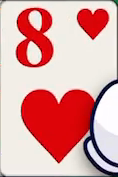
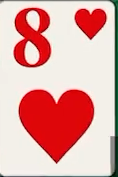
fix: remove overlay from eight of hearts reference

diff --git a/tests/solitaire.spec.js b/tests/solitaire.spec.js
@@ -137,6 +137,7 @@ test('reference card illustrations render on matching cards', async ({ page }) =
       [1, '♦', 1],
       [2, '♣', 7],
       [3, '♦', 10],
+      [4, '♥', 8],
       [5, '♦', 3],
       [6, '♠', 3],
       [9, '♠', 4],
@@ -159,6 +160,9 @@ test('reference card illustrations render on matching cards', async ({ page }) =
     window.solitaireGame.state.tableau[1][0].faceUp = true;
     window.solitaireGame.state.tableau[2][0].faceUp = true;
     window.solitaireGame.state.tableau[3][0].faceUp = true;
+    const eightHearts = window.solitaireGame.state.tableau.flat().find((card) => card.suit === '♥' && card.rank === 8);
+    if (!eightHearts) throw new Error('The test deal did not place the eight of hearts in the tableau.');
+    eightHearts.faceUp = true;
     window.solitaireGame.save();
   });
   await page.reload();
@@ -174,12 +178,32 @@ test('reference card illustrations render on matching cards', async ({ page }) =
     'ace-of-diamonds-reference.png',
     '10-of-diamonds-reference.png',
     '3-of-spades-reference.png',
+    '8-of-hearts-reference.png',
   ];
   for (const filename of referenceArt) {
     const image = page.locator(`.card-face-art[src$="${filename}"]`);
     await expect(image).toHaveCount(1);
     await expect.poll(() => image.evaluate((element) => element.complete && element.naturalWidth === 118 && element.naturalHeight === 177)).toBe(true);
   }
+  const bluePixelsInEightHeartsCorner = await page.evaluate(async () => {
+    const response = await fetch('/assets/cards/8-of-hearts-reference.png');
+    const image = new Image();
+    image.src = URL.createObjectURL(await response.blob());
+    await image.decode();
+    const canvas = document.createElement('canvas');
+    canvas.width = image.naturalWidth;
+    canvas.height = image.naturalHeight;
+    const context = canvas.getContext('2d');
+    context.drawImage(image, 0, 0);
+    const pixels = context.getImageData(80, 70, 38, 107).data;
+    let count = 0;
+    for (let index = 0; index < pixels.length; index += 4) {
+      const [red, green, blue] = pixels.slice(index, index + 3);
+      if (blue > red * 1.15 && blue > green * 1.02 && blue > 75) count += 1;
+    }
+    return count;
+  });
+  expect(bluePixelsInEightHeartsCorner).toBe(0);
 });
 
 test('settings change draw count and hand layout; a new deal resets the board', async ({ page }) => {

diff --git a/assets/cards/README.md b/assets/cards/README.md
@@ -43,6 +43,8 @@ All twelve Jack, Queen, and King cards now use complete source-frame crops. Fift
 | `10-of-hearts-reference.png` | 1367040 (89s) |
 | `8-of-hearts-reference.png` | 1459200 (95s) |
 
+The 8♥ crop uses source rectangle `(648, 428, 118, 177)` from the 95-second gameplay frame; the full card face is visible in that source frame.
+
 The matching reference PNG is selected at runtime and included in the offline shell cache. The remaining number-card faces are listed with their sources below.
 
 Nine more number-card faces are crops from the official [App Store listing](https://apps.apple.com/us/app/solitaire-master/id6464113198?platform=ipad), from its 1242×2688 screenshot renditions. Each listed 116×174 source rectangle is resized to the app's 118×177 card art size:
